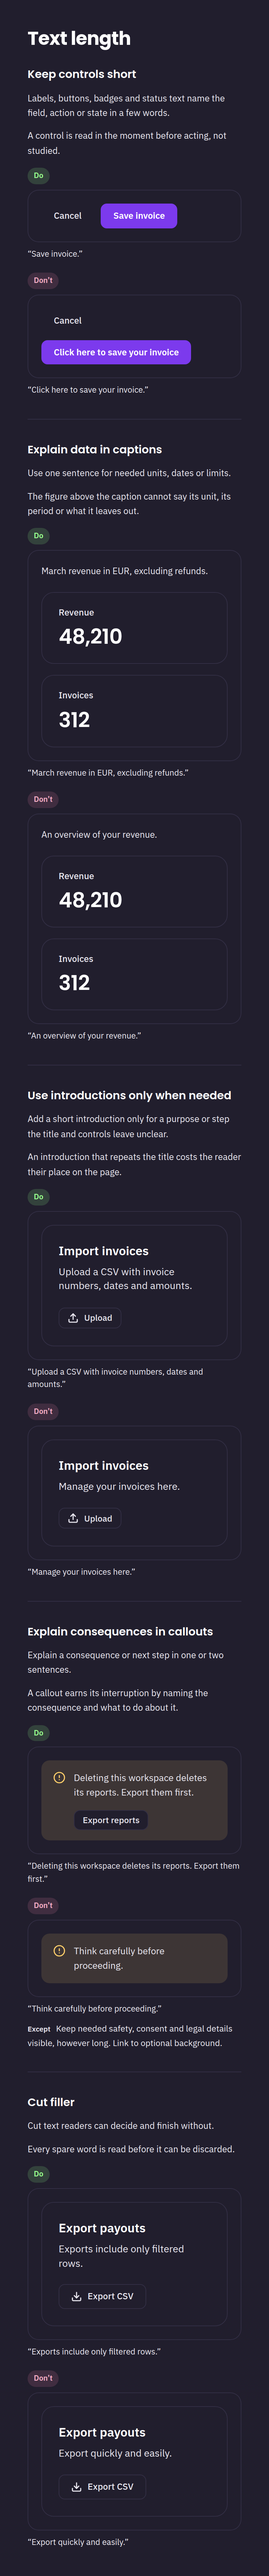
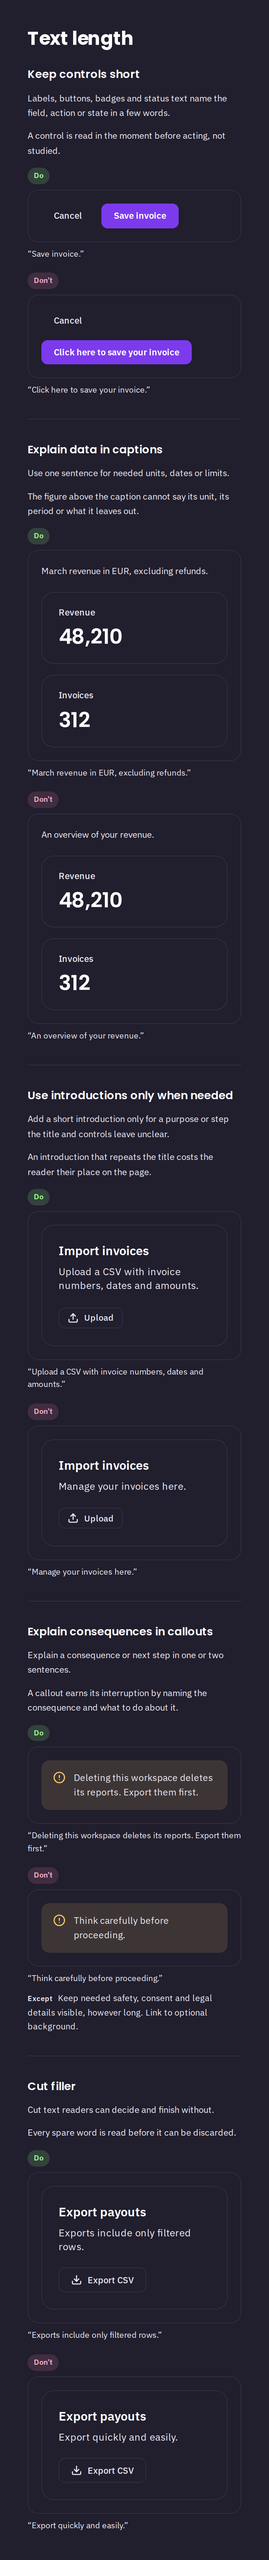
Guidelines: fix letter case, drawer counts and callout ring (#768)
The Motion snippet label is now "CSS". The drawer test counts the new
Motion and page drawers (12 subjects, 7 don'ts). The text-length callout
specimen drops its button, because its focus ring on the dark warn ground
was 4.03:1.

diff --git a/stories/guidelines/TextLength.stories.tsx b/stories/guidelines/TextLength.stories.tsx
@@ -20,8 +20,8 @@ const Save = ({ label }: { label: string }) => <Stage><div className="ui-toolbar
 const Revenue = ({ basis }: { basis: string }) => <Stage><StatBand variant="tiles" basis={basis}
   stats={[{ label: 'Revenue', value: '48,210' }, { label: 'Invoices', value: '312' }]} /></Stage>;
 const Import = ({ sub }: { sub: string }) => <Stage><Card title="Import invoices" sub={sub}><FileDrop accept=".csv" /></Card></Stage>;
-const Delete = ({ text, exportFirst }: { text: string; exportFirst: boolean }) => <Stage>
-  <Callout variant="warn" actions={exportFirst ? <Button size="sm">Export reports</Button> : undefined}>{text}</Callout>
+const Delete = ({ text }: { text: string }) => <Stage>
+  <Callout variant="warn">{text}</Callout>
 </Stage>;
 const Export = ({ sub }: { sub: string }) => <Stage><Card title="Export payouts" sub={sub}>
   <div className="ui-toolbar"><Button icon="download">Export CSV</Button></div>
@@ -33,8 +33,8 @@ const specimens = [
     dont: () => <Revenue basis="An overview of your revenue." /> },
   { id: 'useful-introductions', do: () => <Import sub="Upload a CSV with invoice numbers, dates and amounts." />,
     dont: () => <Import sub="Manage your invoices here." /> },
-  { id: 'useful-callouts', do: () => <Delete text="Deleting this workspace deletes its reports. Export them first." exportFirst />,
-    dont: () => <Delete text="Think carefully before proceeding." exportFirst={false} /> },
+  { id: 'useful-callouts', do: () => <Delete text="Deleting this workspace deletes its reports. Export them first." />,
+    dont: () => <Delete text="Think carefully before proceeding." /> },
   { id: 'remove-filler', do: () => <Export sub="Exports include only filtered rows." />,
     dont: () => <Export sub="Export quickly and easily." /> },
 ];

diff --git a/stories/guidelines/Motion.stories.tsx b/stories/guidelines/Motion.stories.tsx
@@ -43,7 +43,7 @@ const Durations = ({ rows }: { rows: [string, string, string][] }) => <div class
   <tbody>{rows.map(([what, token, time]) =>
     <tr key={what}><td>{what}</td><td>{token}</td><td className="ui-table__num">{time}</td></tr>)}</tbody>
 </table></div></div>;
-const Css = ({ code }: { code: string }) => <div className="gl-stage"><Snippet label="css" code={code} copy={false} /></div>;
+const Css = ({ code }: { code: string }) => <div className="gl-stage"><Snippet label="CSS" code={code} copy={false} /></div>;
 
 const specimens = [
   { id: 'after-load', do: () => <Film frames={SLIDE} />, dont: () => <Film frames={JUMP} /> },

diff --git a/react/src/drawer-rules.test.tsx b/react/src/drawer-rules.test.tsx
@@ -27,7 +27,7 @@ const THEMES = ['dark', 'light'];
 // The drawer panels the catalogue renders in each theme: set them to the count the failure
 // prints once a change is meant. The shell draws the same drawer in every story that has a
 // shell, so one of them stands for all.
-const EXPECTED = { subjects: 9, donts: 3 };
+const EXPECTED = { subjects: 12, donts: 7 };
 
 function walk(theme: string) {
   const { vars, css } = kitCssFor(theme);
